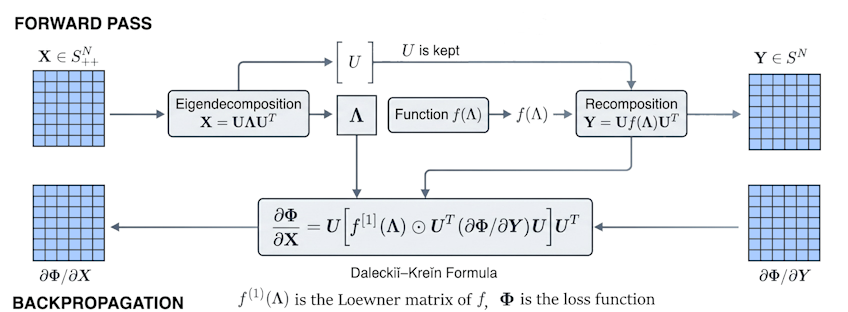
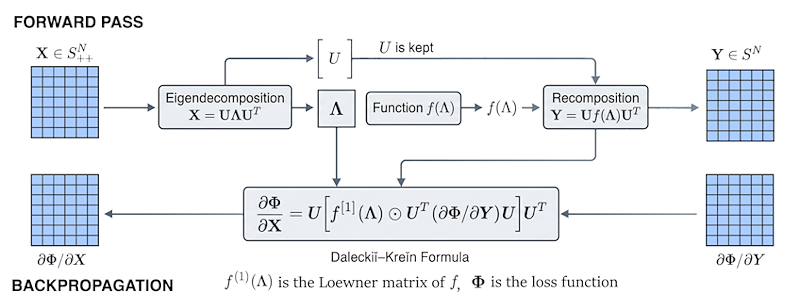
dev

diff --git a/README.md b/README.md
@@ -2,8 +2,7 @@
 <p align="center">
   <img src="https://raw.githubusercontent.com/Marco-Congedo/ChainRulesSPD.jl/master/docs/src/assets/fig1.png"
        alt="header"
-       width="848"
-       style="max-width:848px; width:100%; height:auto;">
+       width="800">
 </p>
 
 
